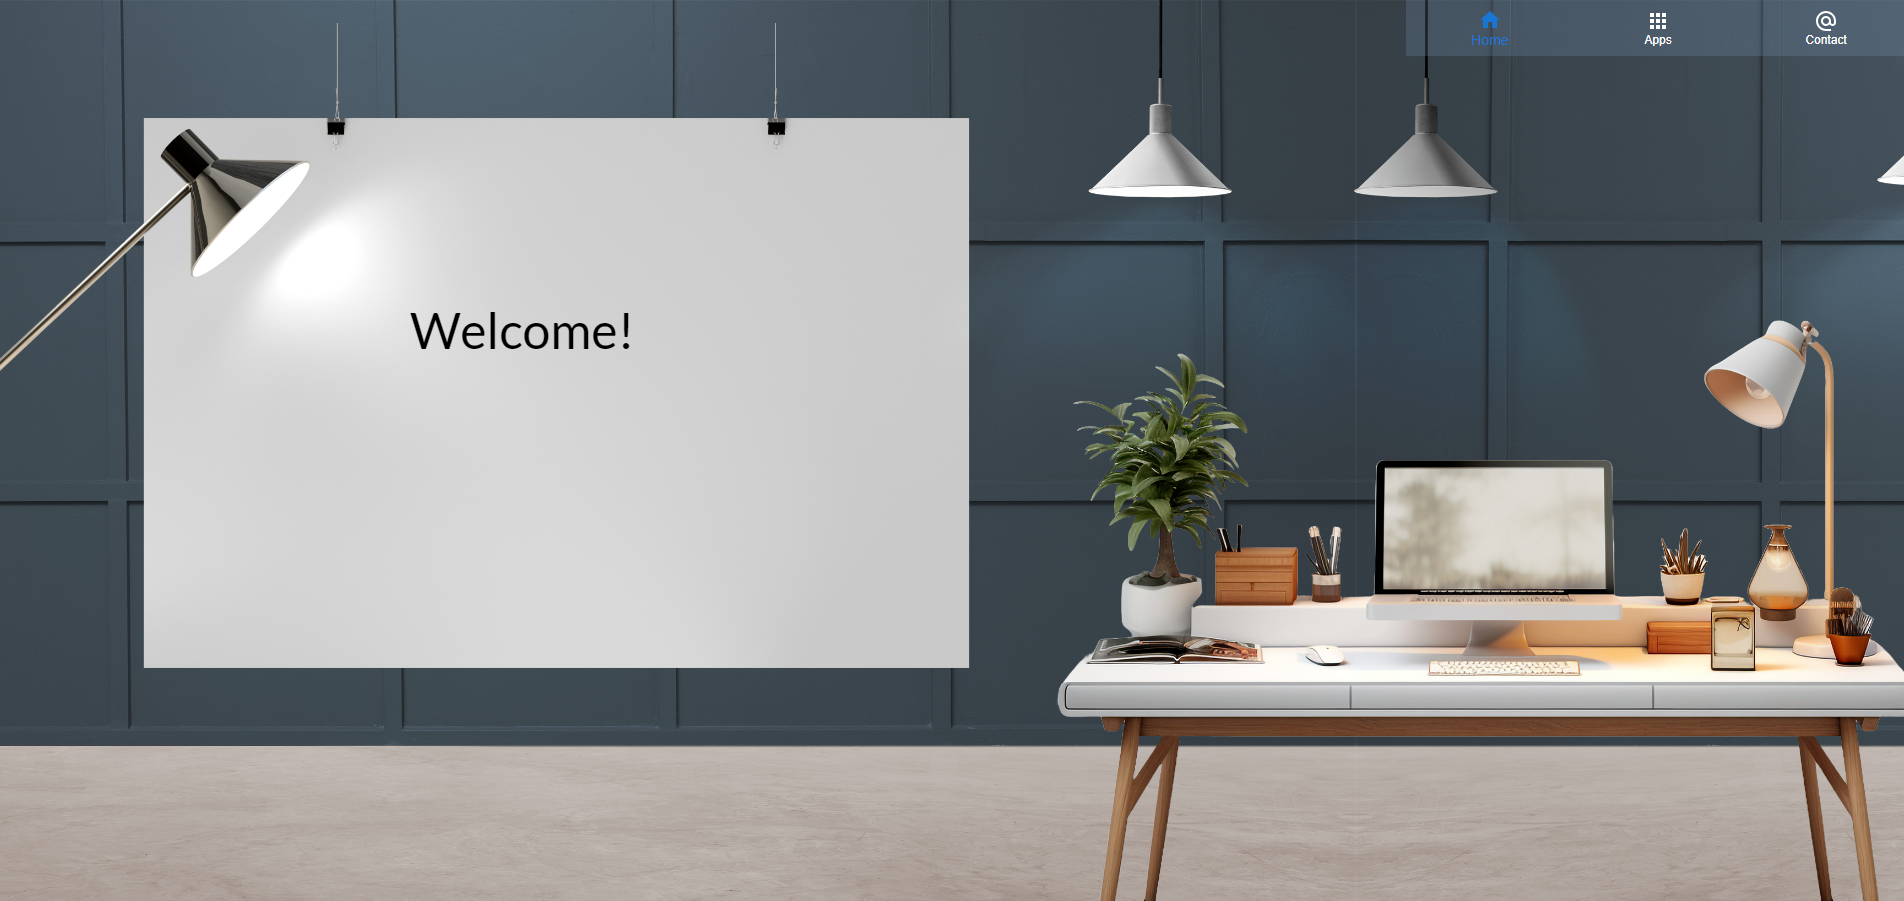
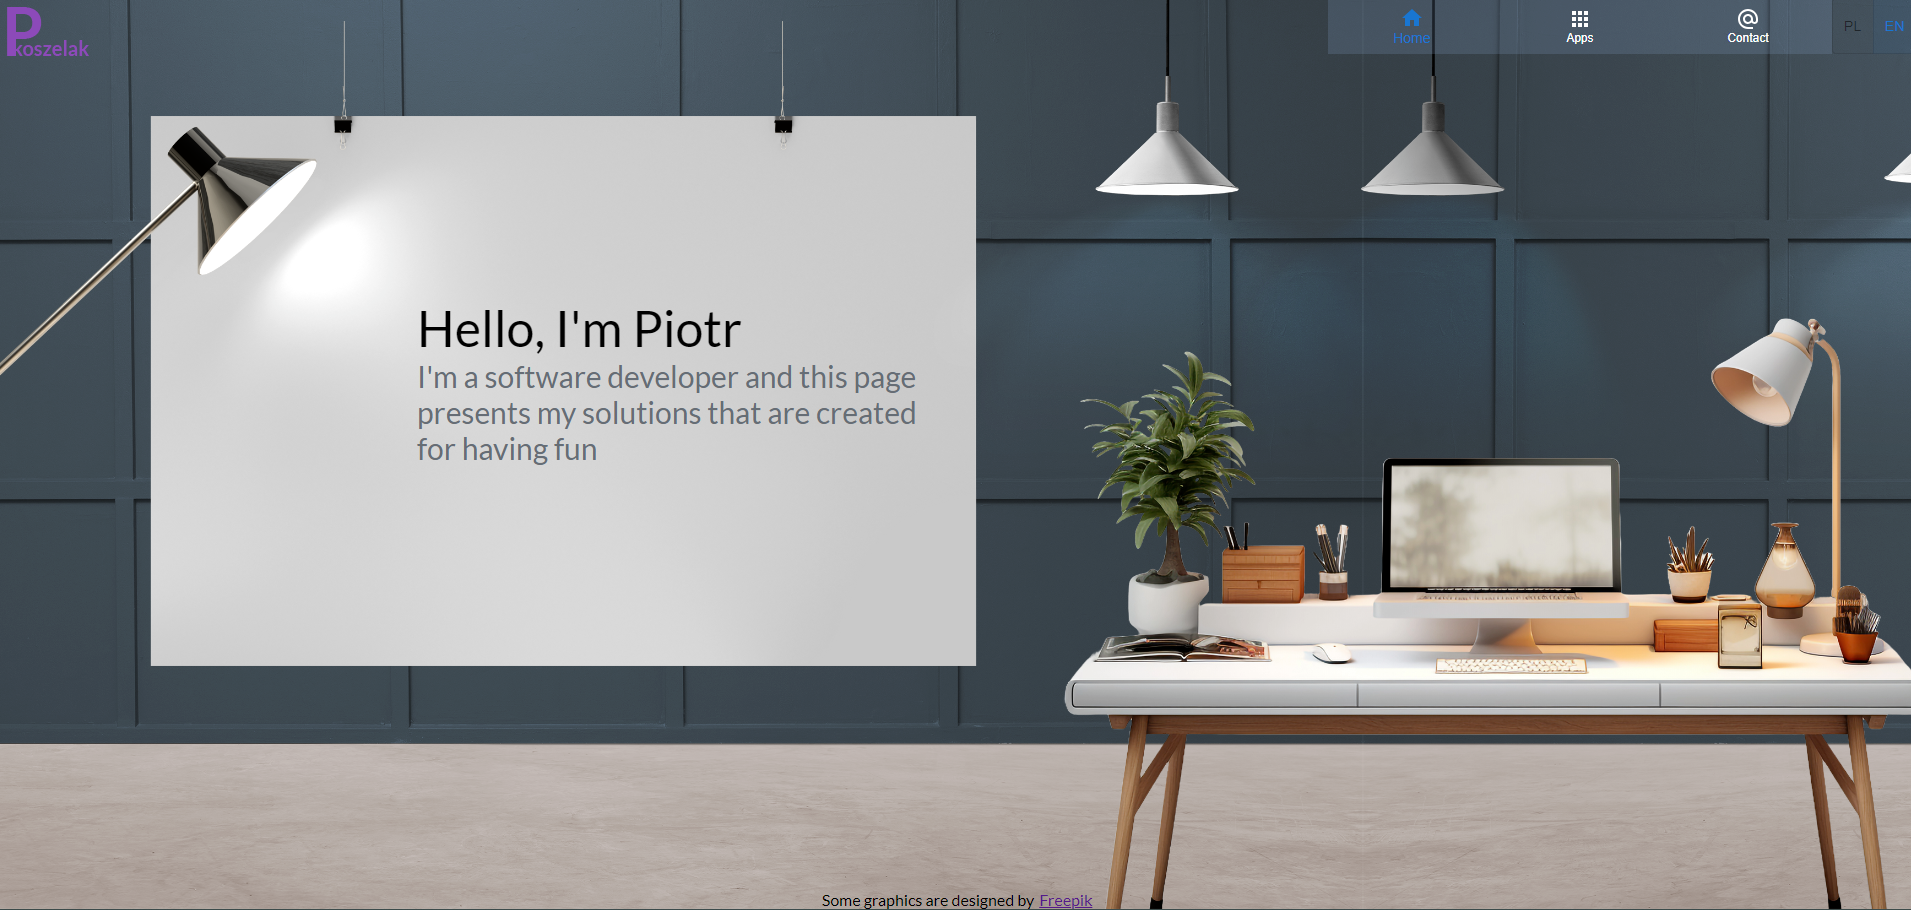
Update README file

diff --git a/README.md b/README.md
@@ -1,6 +1,8 @@
 # App
 
-The app is under development.
+https://koszelakpiotr.onrender.com/
+
+Please note that the app is under development.
 
 ![Alt text](src/assets/app.png?raw=true 'Title')
 
